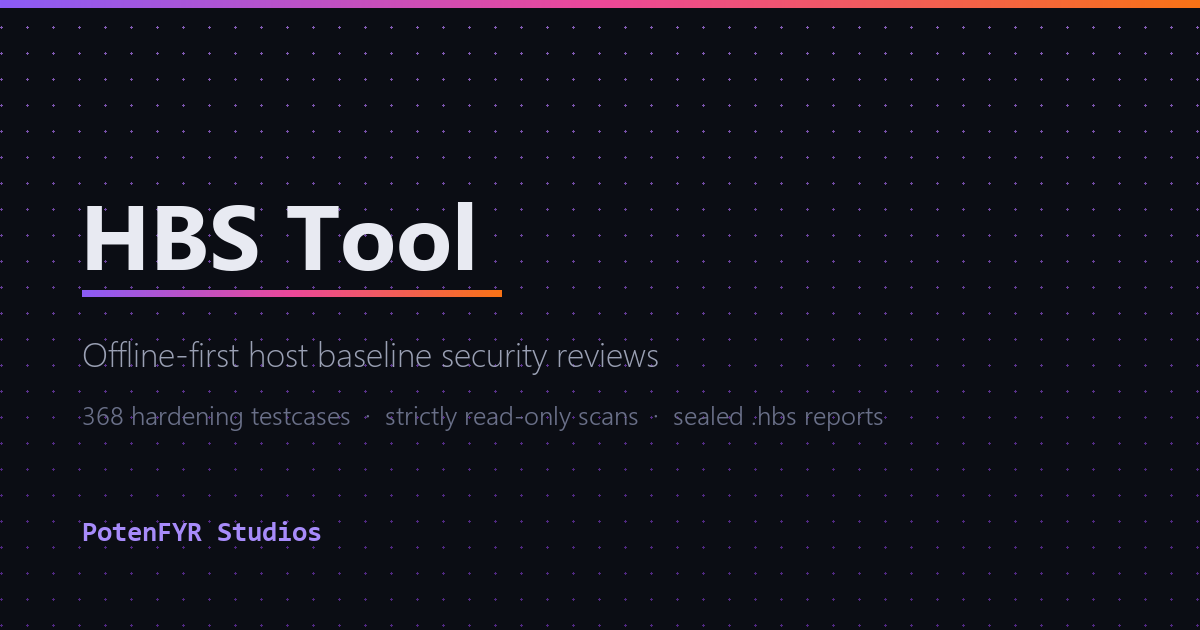
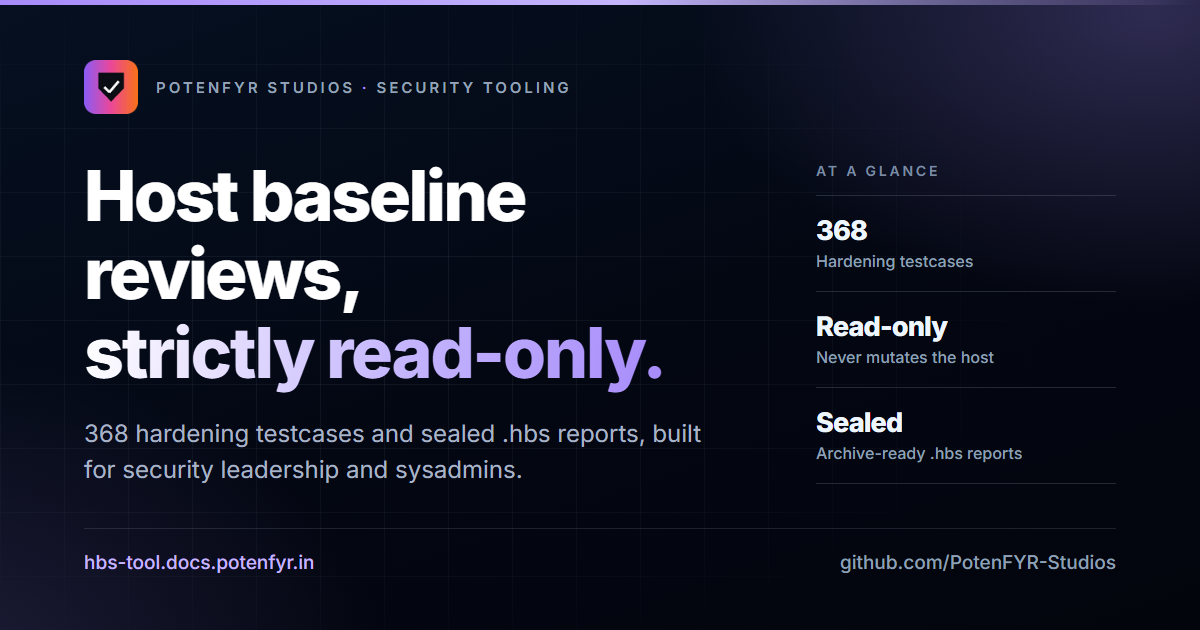
feat(docs): redesigned OG card rendered from a committed script

diff --git a/docs/scripts/og/card.html b/docs/scripts/og/card.html
@@ -1,0 +1,199 @@
+<!doctype html>
+<html lang="en">
+  <head>
+    <meta charset="utf-8" />
+    <title>HBS-Tool link preview</title>
+    <!--
+      Shared template for PotenFYR Studios project OG cards.
+      Edit only the CONFIG block below; the layout stays identical across the org
+      so every project's link preview reads as one family.
+      Render with: bun run og:image  (scripts/og/build-og.mjs)
+    -->
+    <link rel="preconnect" href="https://fonts.googleapis.com" />
+    <link rel="preconnect" href="https://fonts.gstatic.com" crossorigin />
+    <link
+      href="https://fonts.googleapis.com/css2?family=Inter:wght@400;500;600;700;800&display=swap"
+      rel="stylesheet"
+    />
+    <style>
+      /* ---------------- CONFIG ---------------- */
+      :root {
+        --accent: #a78bfa;         /* project accent, matches the docs site */
+        --accent-soft: #c4b5fd;    /* lighter tint of --accent */
+      }
+      /* ---------------- /CONFIG --------------- */
+
+      * { box-sizing: border-box; margin: 0; padding: 0; }
+      html, body { width: 1200px; height: 630px; overflow: hidden; }
+      body {
+        font-family: 'Inter', 'Segoe UI', system-ui, sans-serif;
+        background: #030712;
+        color: #fff;
+        -webkit-font-smoothing: antialiased;
+      }
+
+      .card {
+        position: relative;
+        width: 1200px;
+        height: 630px;
+        padding: 60px 84px 56px;
+        display: flex;
+        flex-direction: column;
+        background:
+          radial-gradient(720px 460px at 96% 2%, color-mix(in srgb, var(--accent) 26%, transparent), transparent 64%),
+          radial-gradient(700px 500px at -4% 106%, color-mix(in srgb, var(--accent) 16%, transparent), transparent 62%),
+          linear-gradient(160deg, #061021 0%, #030712 54%, #03050d 100%);
+        overflow: hidden;
+      }
+
+      .grid {
+        position: absolute;
+        inset: 0;
+        background-image:
+          linear-gradient(to right, rgba(148, 163, 184, 0.10) 1px, transparent 1px),
+          linear-gradient(to bottom, rgba(148, 163, 184, 0.10) 1px, transparent 1px);
+        background-size: 64px 64px;
+        -webkit-mask-image: radial-gradient(780px 430px at 32% 50%, #000 0%, rgba(0, 0, 0, 0.5) 60%, transparent 88%);
+        mask-image: radial-gradient(780px 430px at 32% 50%, #000 0%, rgba(0, 0, 0, 0.5) 60%, transparent 88%);
+      }
+
+      .edge {
+        position: absolute;
+        top: 0; left: 0; right: 0;
+        height: 5px;
+        background: linear-gradient(90deg, var(--accent) 0%, var(--accent-soft) 52%, transparent 100%);
+      }
+
+      .content { position: relative; z-index: 2; display: flex; flex-direction: column; height: 100%; }
+
+      .lockup { display: flex; align-items: center; gap: 18px; }
+      .lockup img { width: 54px; height: 54px; display: block; }
+      .lockup .studio {
+        font-size: 15px;
+        font-weight: 600;
+        letter-spacing: 0.2em;
+        text-transform: uppercase;
+        color: #94a3b8;
+      }
+      .lockup .studio em { font-style: normal; color: var(--accent); }
+
+      .body {
+        margin-top: auto;
+        display: flex;
+        align-items: flex-end;
+        justify-content: space-between;
+        gap: 54px;
+      }
+      .copy { max-width: 720px; }
+
+      h1 {
+        font-size: 70px;
+        line-height: 1.12;
+        font-weight: 800;
+        letter-spacing: -0.035em;
+      }
+      h1 .grad {
+        background: linear-gradient(96deg, #ffffff 0%, var(--accent-soft) 55%, var(--accent) 100%);
+        -webkit-background-clip: text;
+        background-clip: text;
+        -webkit-text-fill-color: transparent;
+      }
+
+      p.lede {
+        margin-top: 24px;
+        font-size: 24px;
+        line-height: 1.5;
+        color: #a8b4c6;
+      }
+
+      .facts { display: flex; flex-direction: column; min-width: 300px; padding-bottom: 4px; }
+      .facts .eyebrow {
+        font-size: 14px;
+        font-weight: 600;
+        letter-spacing: 0.2em;
+        text-transform: uppercase;
+        color: #7c8ba1;
+        padding-bottom: 16px;
+      }
+      .fact {
+        border-top: 1px solid rgba(148, 163, 184, 0.22);
+        padding: 18px 0 20px;
+      }
+      .fact.last { border-bottom: 1px solid rgba(148, 163, 184, 0.22); }
+      .fact b {
+        display: block;
+        font-size: 27px;
+        font-weight: 800;
+        letter-spacing: -0.03em;
+        color: #eef6ff;
+      }
+      .fact span {
+        display: block;
+        margin-top: 4px;
+        font-size: 16px;
+        font-weight: 500;
+        color: #8fa0b6;
+      }
+
+      .foot {
+        margin-top: 40px;
+        display: flex;
+        align-items: center;
+        justify-content: space-between;
+        border-top: 1px solid rgba(148, 163, 184, 0.18);
+        padding-top: 22px;
+        font-size: 19px;
+        font-weight: 500;
+      }
+      .foot .domain { color: var(--accent-soft); }
+      .foot .org { color: #8fa0b6; }
+    </style>
+  </head>
+  <body>
+    <div class="card">
+      <div class="grid"></div>
+      <div class="edge"></div>
+
+      <div class="content">
+        <div class="lockup">
+          <img src="../../public/favicon.png" alt="" />
+          <div class="studio">PotenFYR Studios <em>·</em> Security Tooling</div>
+        </div>
+
+        <div class="body">
+          <div class="copy">
+            <h1>
+              Host baseline reviews,<br />
+              <span class="grad">strictly read-only.</span>
+            </h1>
+            <p class="lede">
+              368 hardening testcases and sealed .hbs reports, built<br />
+              for security leadership and sysadmins.
+            </p>
+          </div>
+
+          <div class="facts">
+            <div class="eyebrow">At a glance</div>
+            <div class="fact">
+              <b>368</b>
+              <span>Hardening testcases</span>
+            </div>
+            <div class="fact">
+              <b>Read-only</b>
+              <span>Never mutates the host</span>
+            </div>
+            <div class="fact last">
+              <b>Sealed</b>
+              <span>Archive-ready .hbs reports</span>
+            </div>
+          </div>
+        </div>
+
+        <div class="foot">
+          <div class="domain">hbs-tool.docs.potenfyr.in</div>
+          <div class="org">github.com/PotenFYR-Studios</div>
+        </div>
+      </div>
+    </div>
+  </body>
+</html>
